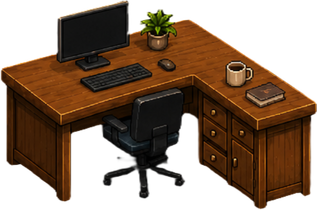
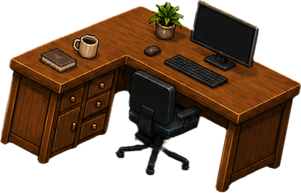
feat(frontend): replace desk sprites from desks.png, unify orientation
Recrop 9 desk sprites from desks.png sheet and flip d3/d6/d7/d9 so all
desks face the left wall consistently. Drop DESK_Y_RATIO squash (0.87->1)
to render desks at their source proportions.

diff --git a/a-lens/frontend/src/room/renderer.ts b/a-lens/frontend/src/room/renderer.ts
@@ -194,9 +194,8 @@ export function buildRoomScene(
   // ── 책상 (deskCount만큼 — 에이전트보다 많으면 빈 책상, 'mix'면 종류 순환) ──
   // 새 desk 스프라이트가 시트보다 작게 잘려 나와, 배경 대비 살짝 키워 얹는다.
   const DESK_SCALE = 1.7
-  // desk 스프라이트는 ~30°(slope 0.577) 다이메트릭으로 그려져 배경(2:1, slope 0.5)보다 가파르다.
-  // 세로를 0.5/0.577로 눌러 평면 각도를 방 바닥·벽과 맞춘다.
-  const DESK_Y_RATIO = 0.87
+  // desks.png 원본 비율 그대로 렌더링한다(세로 눌림 없음).
+  const DESK_Y_RATIO = 1
   slots.forEach(({ gx, gy }, k) => {
     const deskId = resolveDeskId(config.desk, k)
     if (placeKitSprite(root, `desk.${deskId}`, gx, gy, depth(gx + 1, gy + 0.5), DESK_SCALE, DESK_Y_RATIO)) return
